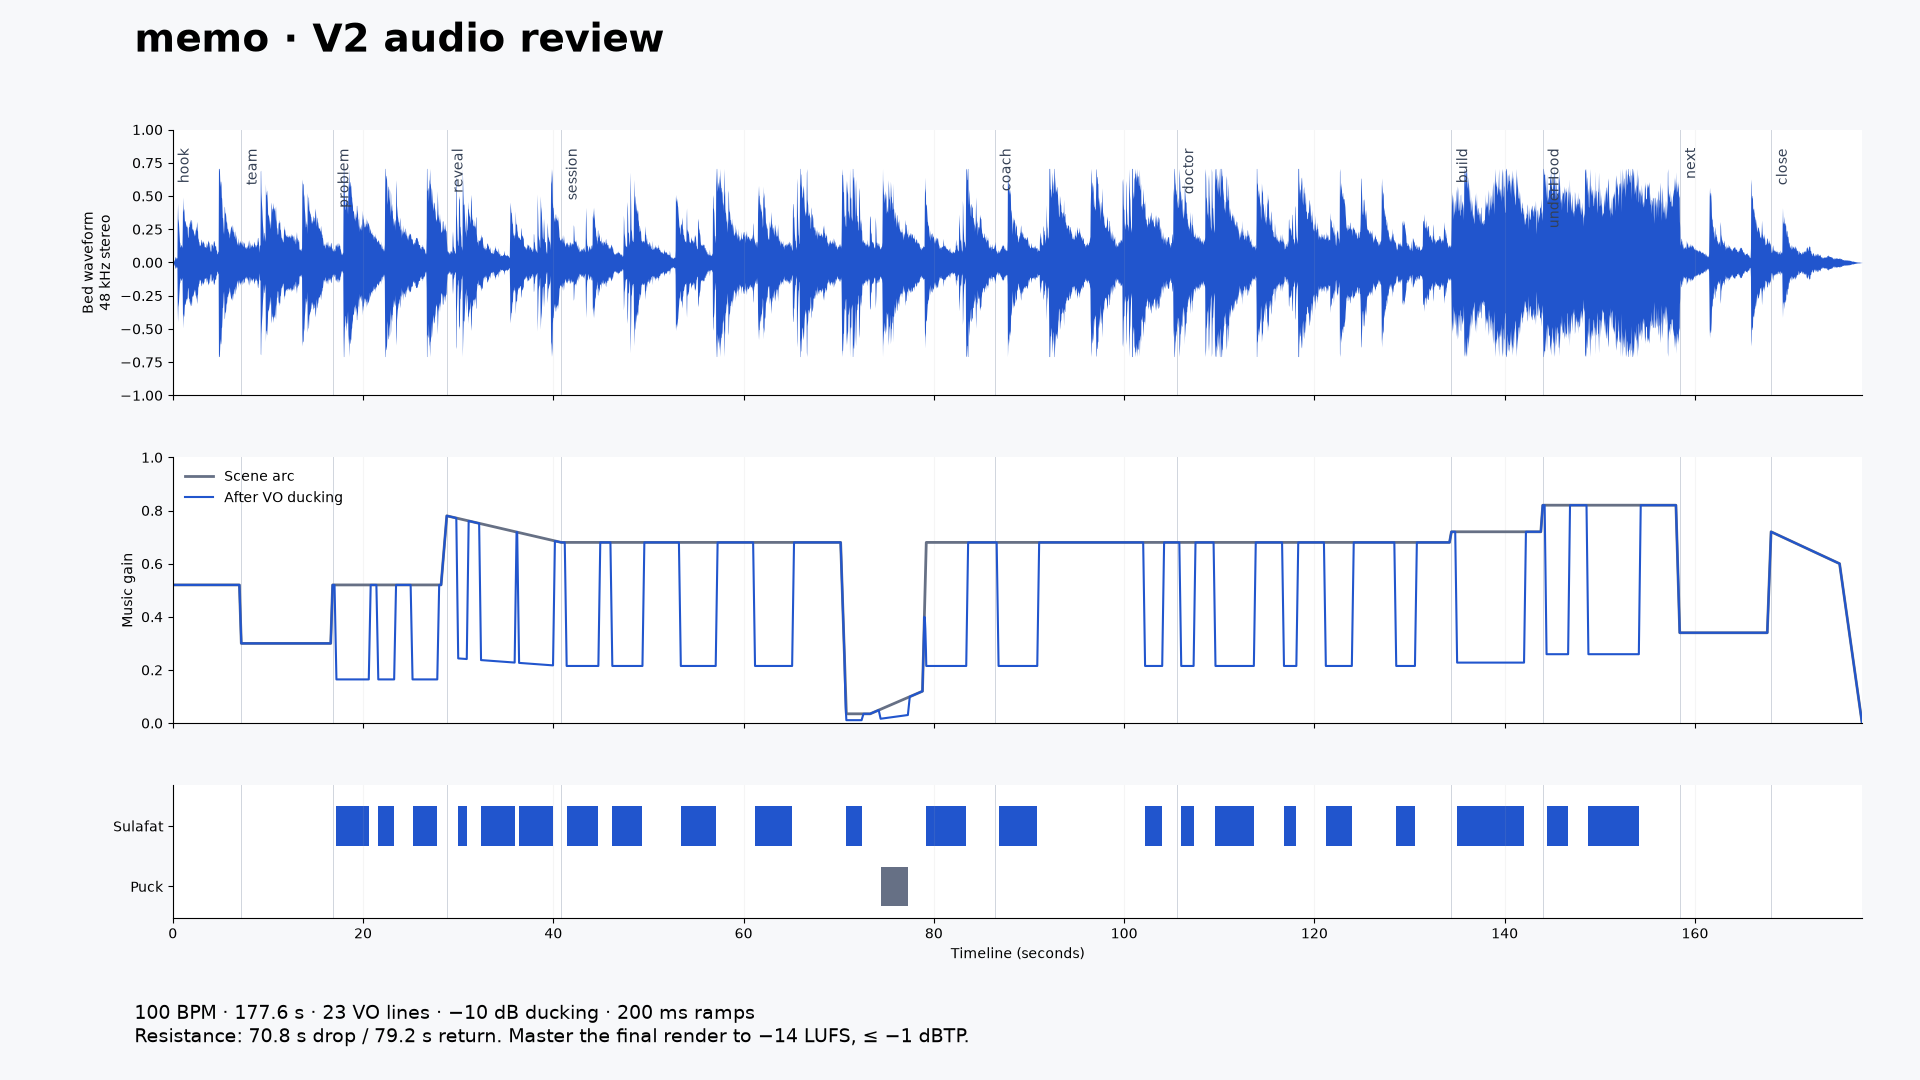
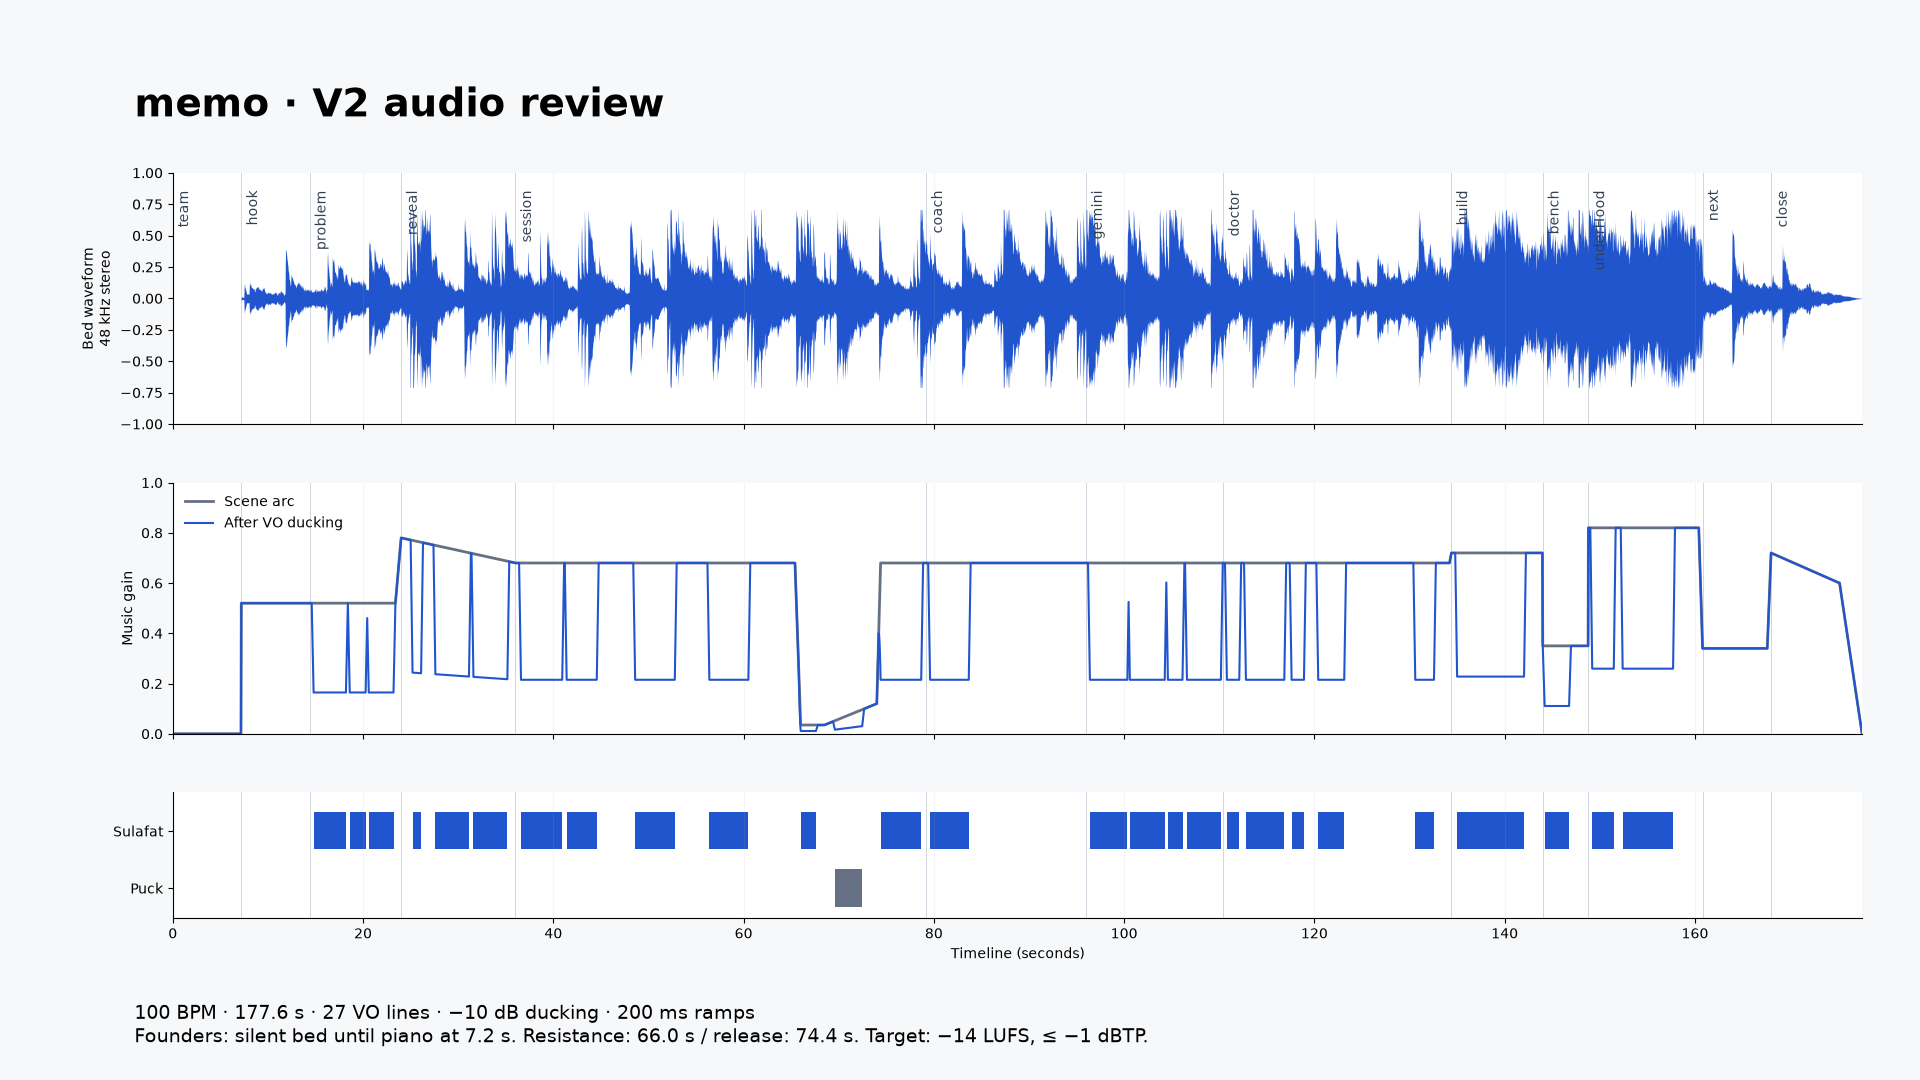
v2: master the judging cut and refresh review evidence

diff --git a/video/studio/audio/README.md b/video/studio/audio/README.md
@@ -15,15 +15,14 @@ All shipping audio lives in `public/audio/`. Scene copy and timeline are unchang
 
 ```sh
 pnpm studio
-npx remotion render Main out/v2-mix.mp4
+npx remotion render Main out/v2-mix-raw.mp4
+audio/loudness.sh --normalize out/v2-mix-raw.mp4 out/v2-mix.mp4
 audio/loudness.sh out/v2-mix.mp4
-audio/loudness.sh --normalize out/v2-mix.mp4 out/v2-mix-master.mp4
-audio/loudness.sh out/v2-mix-master.mp4
 ```
 
 The raw render is the dialogue/music mix with headroom. The mastering pass targets
 −14 LUFS integrated and ≤ −1 dBTP, copies the video stream, and leaves 0.2 dB
-of limiter headroom plus a 0.1 dB final trim before AAC encoding. Re-measure the encoded file. Re-master
+of limiter headroom before AAC encoding. Re-measure the encoded file. Re-master
 after adding the team's real footage; its dialogue changes the integrated level.
 
 Scenes opt into SFX explicitly, using their recording's actual event frame:
@@ -43,18 +42,21 @@ so overlapping ramps do not multiply. Real `team-intro`, `team-next`, and
 `coach-talk` footage automatically reserve dialogue headroom when present.
 
 `public/audio/music/manifest.json` controls the scene arc independently of VO
-ducking: reveal lift at 28.8 s; near silence at 70.8 s for 2.5 s; restrained rebuild
-until the release at 79.2 s; build groove at 134.4 s; board lift at 144 s; founders pullback at 158.4 s;
-resolution at 168 s and fade to zero at the end.
+ducking: exact silence during the founders from 0–7.2 s; piano enters on the
+hook cut at 7.2 s; reveal lift at 24 s; resistance drop at 66 s for 2.5 s;
+restrained rebuild until release at 74.4 s; build groove at 134.4 s; bench gain fixed at 35%
+from 144–148.8 s (percussion pauses for servo sound); board lift at 148.8 s; founders pullback at 160.8 s; resolution at 168 s; fade to zero at
+the 177.6-second end. All boundaries are derived from the current timeline.
 
 ## Reproduce and check
 
 From `video/studio/`:
 
 ```sh
-python3 audio/generate.py audition Sulafat
-python3 audio/generate.py scene reveal
-python3 audio/generate.py retry coach-1
+python3 audio/generate.py replace reveal
+python3 audio/generate.py replace session
+python3 audio/generate.py replace gemini
+python3 audio/generate.py replace judging
 pnpm check
 node audio/check.mjs
 ```
@@ -62,7 +64,7 @@ node audio/check.mjs
 From `backend/` (temporary Python packages; no dependency changes):
 
 ```sh
-uv run --with faster-whisper python ../video/studio/audio/prepare_vo.py
+uv run --with faster-whisper python ../video/studio/audio/replace_vo.py
 uv run --with numpy python ../video/studio/audio/build_music.py
 uv run --with faster-whisper python ../video/studio/audio/verify_vo.py
 ```
@@ -81,8 +83,16 @@ retry were shortened to 150 ms, yielding 122 frames; no words or spoken samples
 were removed and no time stretching was used. `audio/vo-edit.json` gives exact
 source cuts and the pause edits.
 
+The latest owner revisions change five existing lines and add four Gemini
+lines plus the bench line, all with Sulafat. These ten lines use four batched
+requests. `coach-2` is retired from the manifest. The other 17 retained WAVs
+remain byte-for-byte unchanged; hashes are recorded in
+`audio/revision-report.json`. Initial full-scene takes are archived in the local
+cache; `prepare_vo.py` refuses to overwrite installed owner revisions.
+
 `audio/check.mjs` checks every expected VO id, actual WAV duration against its
-manifest and slot, 48 kHz sample rates, exact bed sample count, cue ordering,
+manifest and slot, 48 kHz sample rates, exact bed sample count, exact silence before the
+7.2-second cut and piano in the first hook frame, cue ordering,
 resistance/release levels, SFX licenses/count, and ducking ramp/overlap behavior.
 The local Whisper transcript pass (`verify_vo.py`) verifies the split files independently of
 the TTS response. Brand-name spelling may differ in automatic transcription. One isolated doctor
@@ -117,10 +127,13 @@ API request shapes were checked against Google's current
 
 ## Verified render
 
+The final delivery file is `out/v2-mix.mp4`; mastering is included in the
+workflow above. `out/v2-mix-master.mp4` is refreshed with an identical copy.
+
 The encoded 177.6-second master measured **−14.0 LUFS integrated**, **−1.2 dBTP**
-and 7.9 LU loudness range. The raw mix measured −18.0 LUFS / −3.4 dBTP.
+and 9.2 LU loudness range. The raw mix measured −17.5 LUFS / −3.4 dBTP.
 Full measurement commands and ffmpeg summaries are in `audio/loudness-report.txt`.
-Five review PNGs (four scene-caption stills and the mix map) are in `evidence/V2/`.
+Six review PNGs (reveal, safety coach, Gemini, build, bench and the mix map) are in `evidence/V2/`.
 
 ## Integration notes
 
